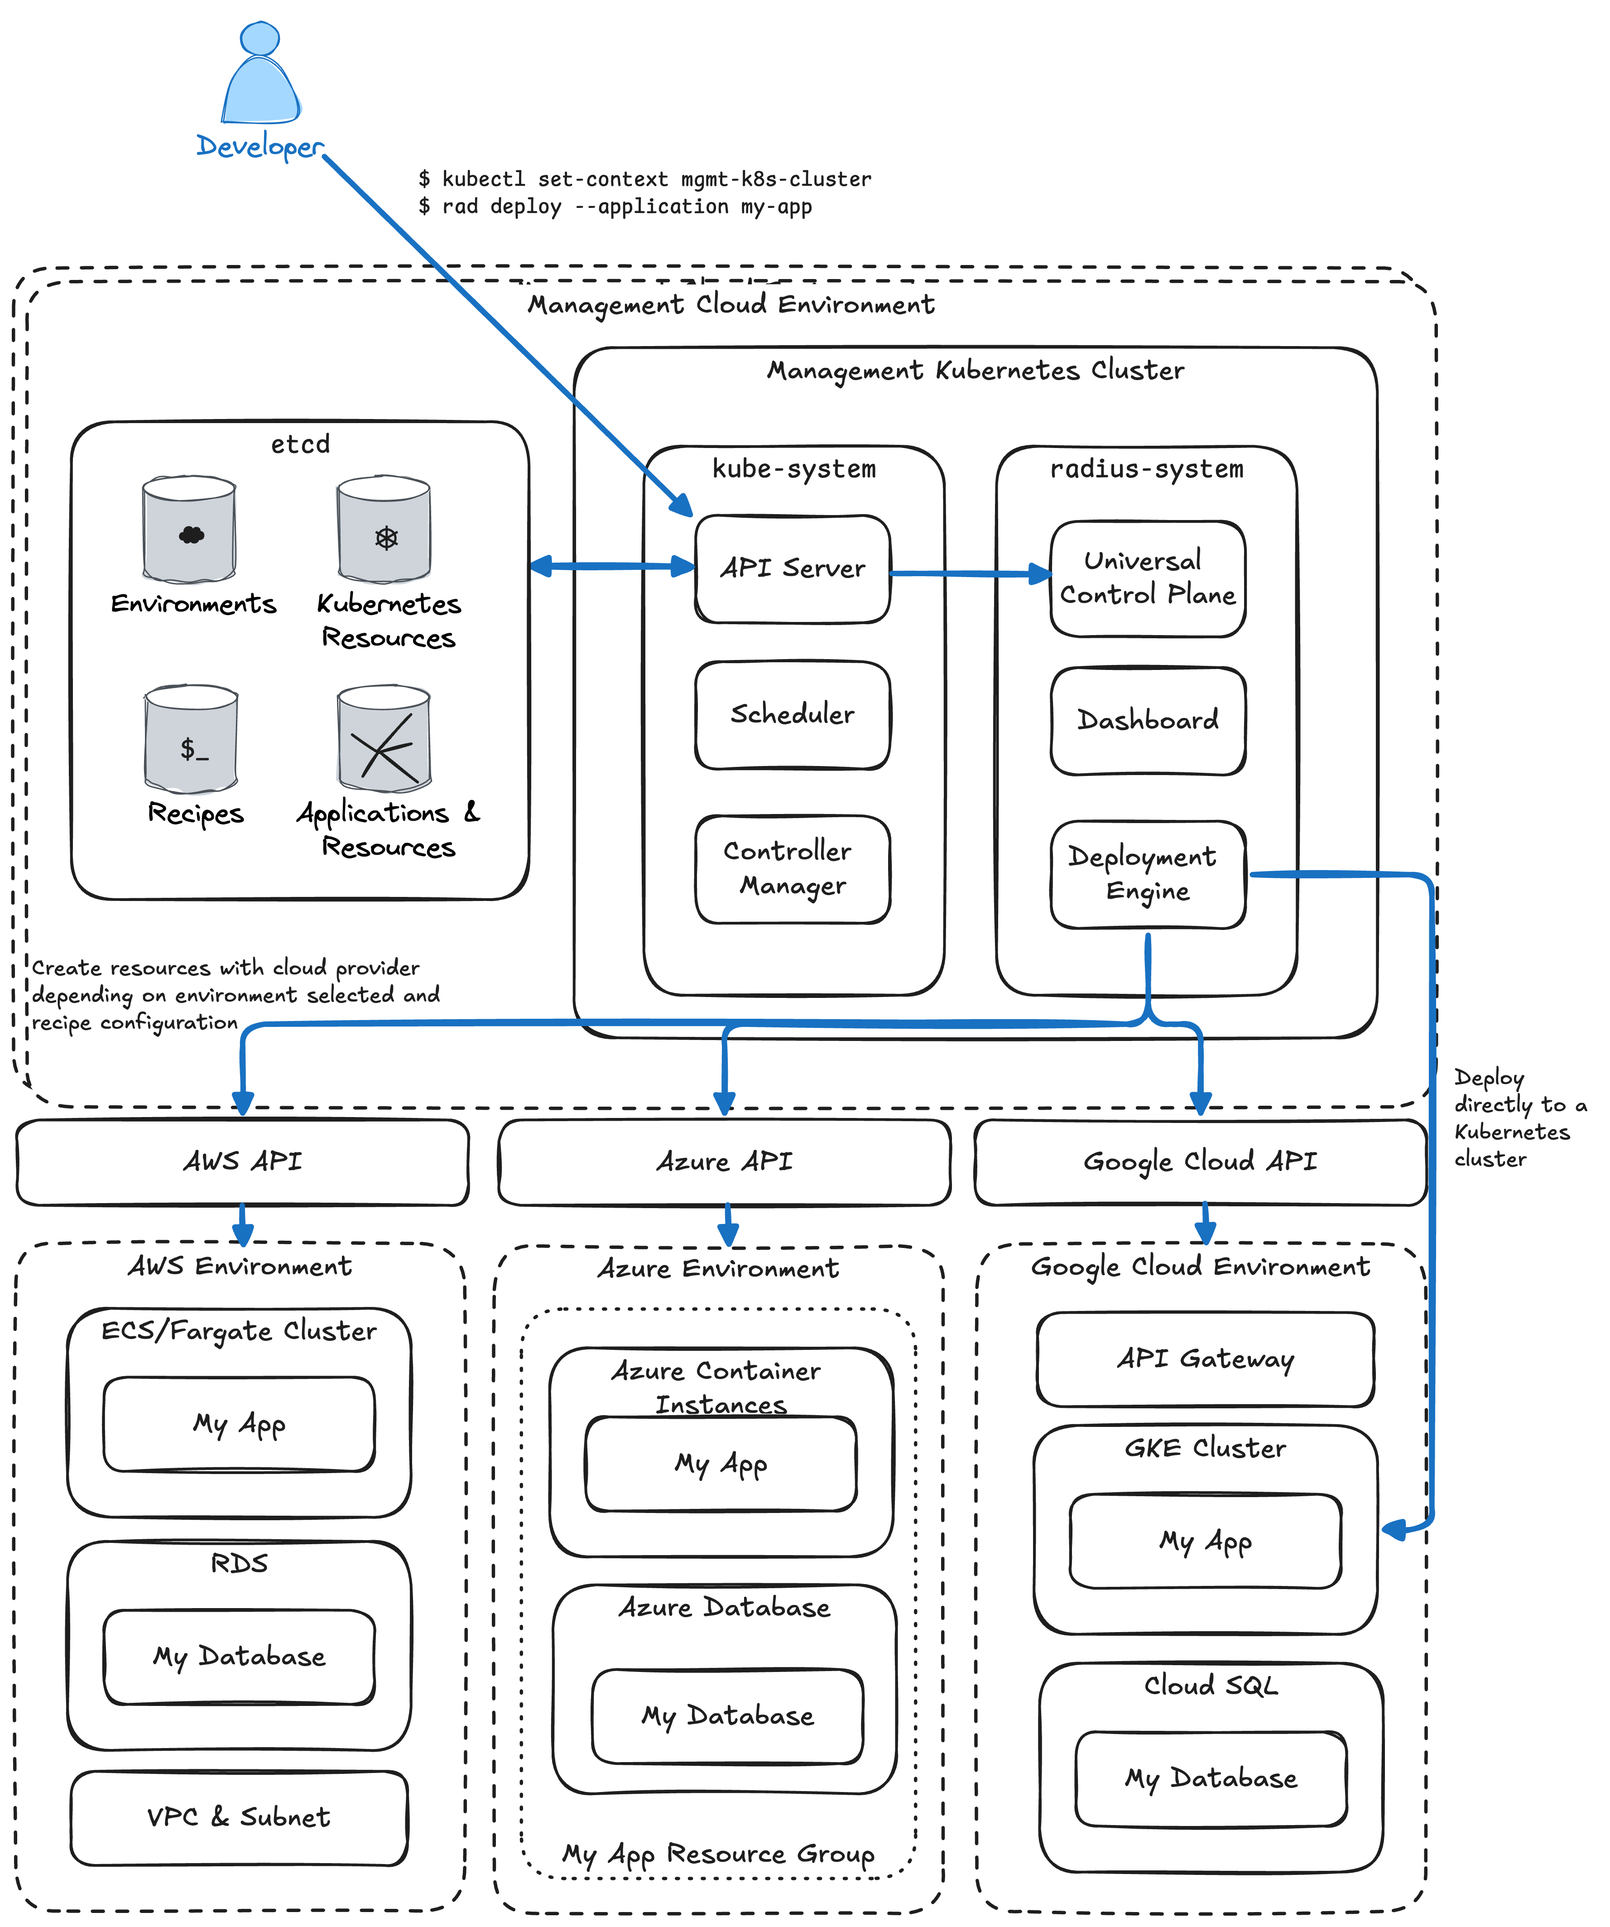
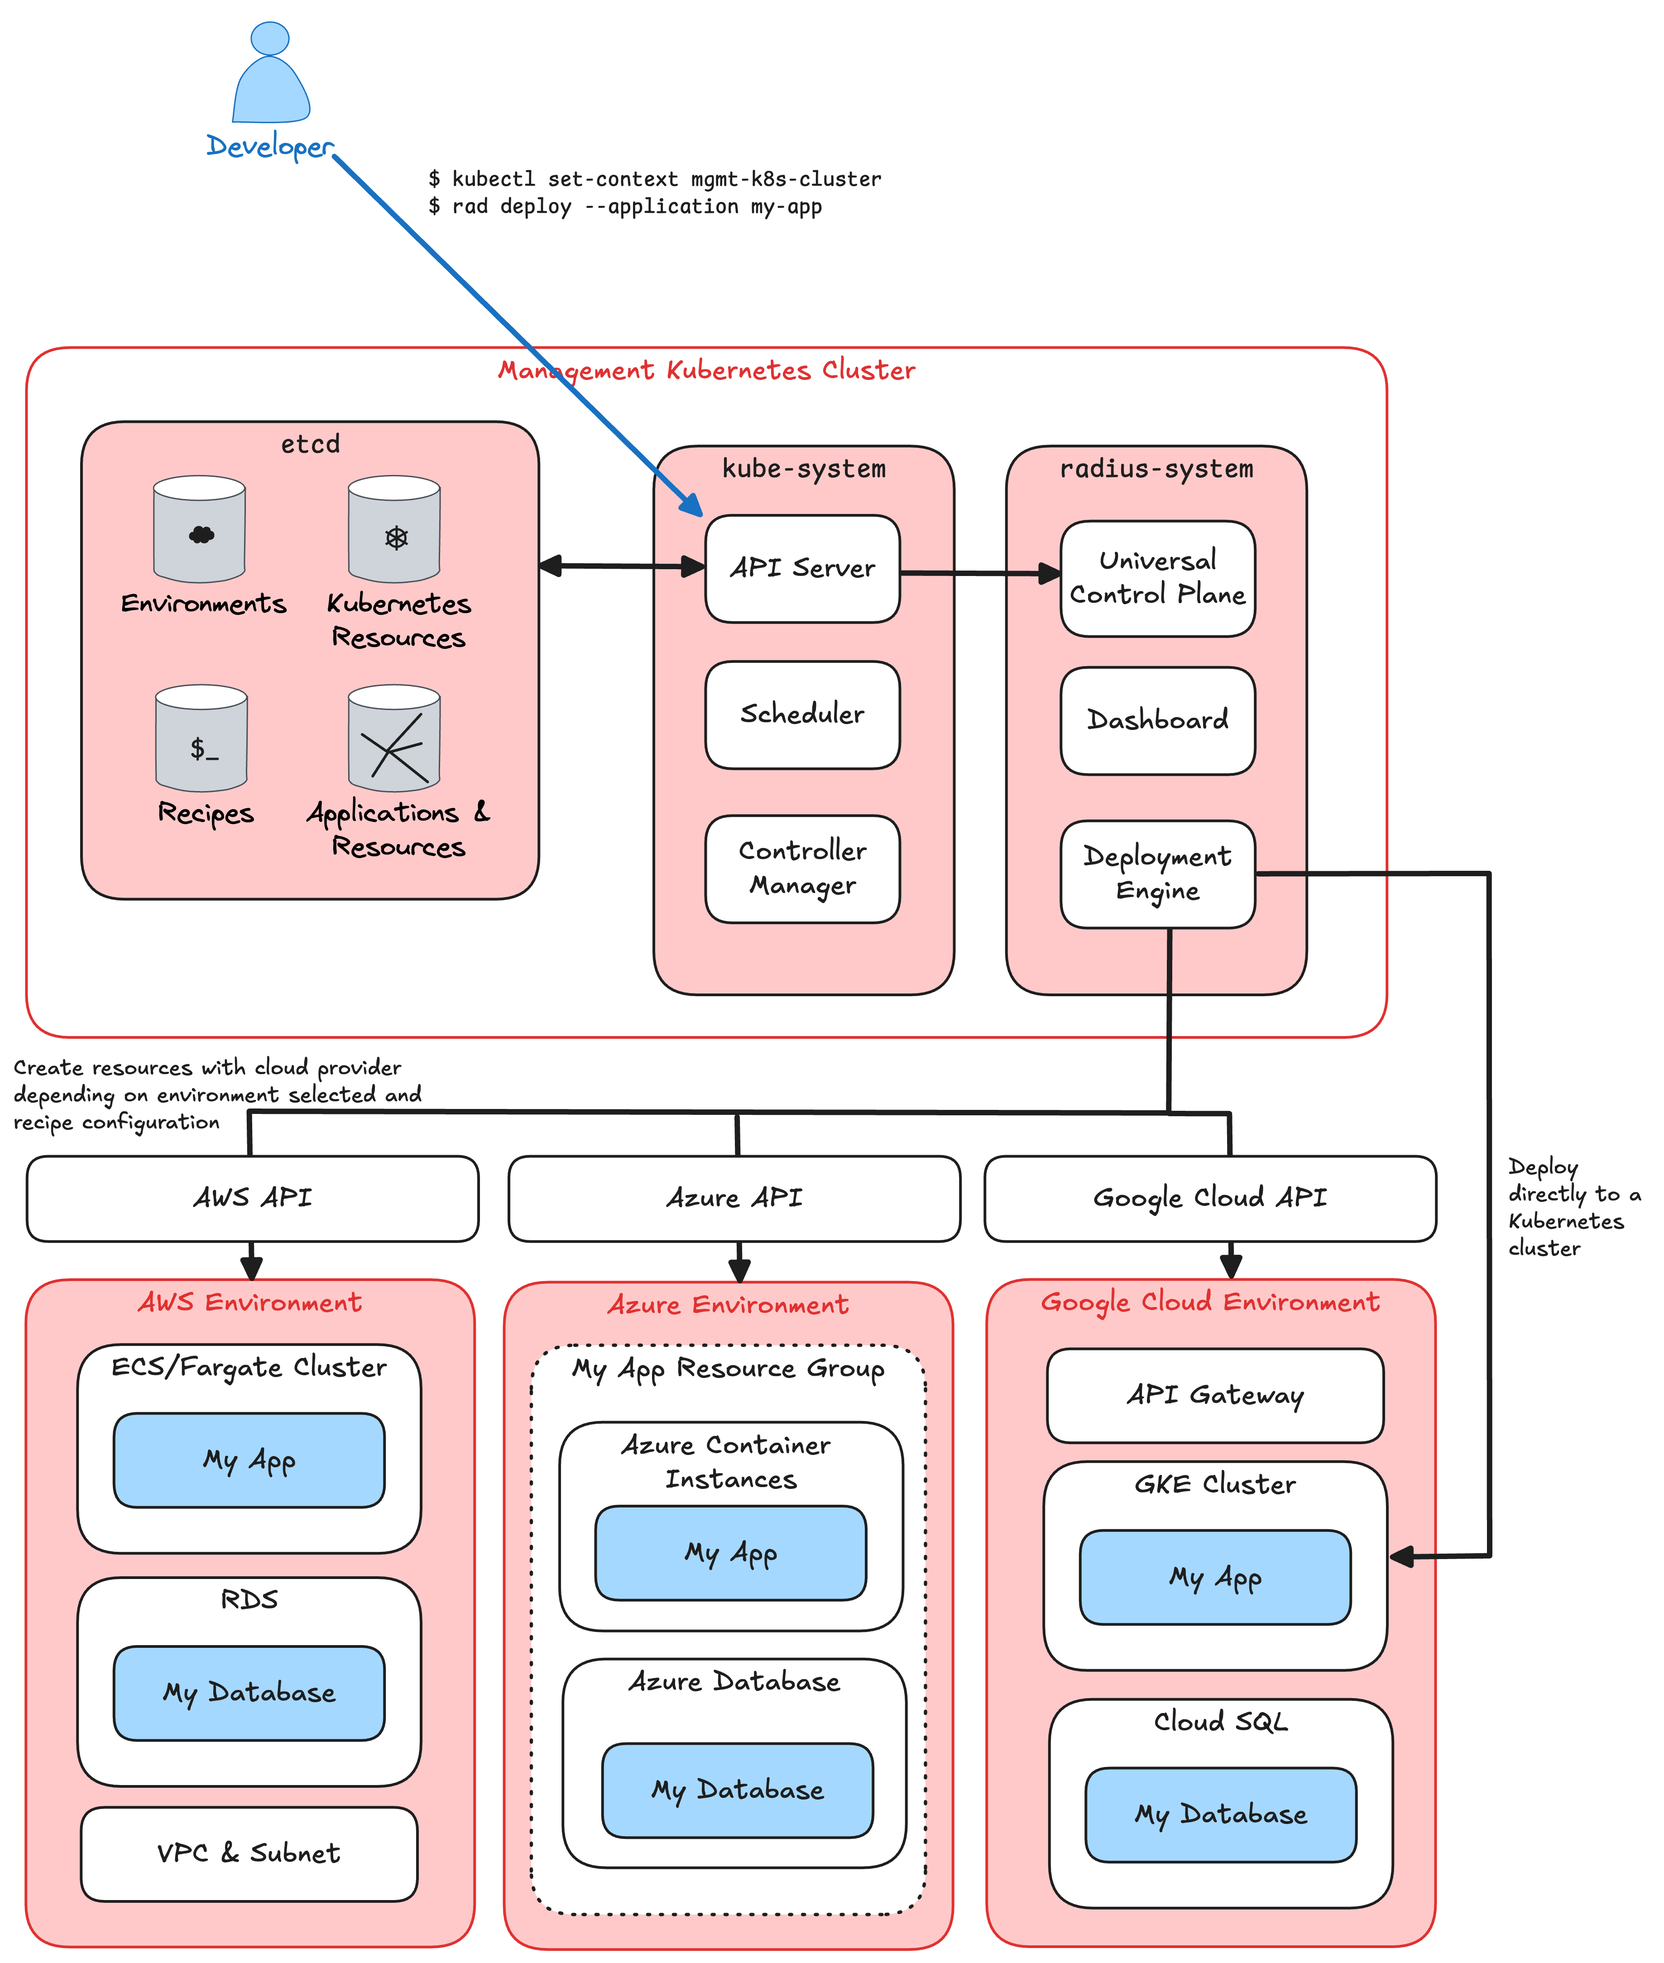
Incorporating Ryan Waite's feedback and small updates to the diagrams.

diff --git a/radblog/content/posts/2024/what-i-learned-in-six-weeks/index.md b/radblog/content/posts/2024/what-i-learned-in-six-weeks/index.md
@@ -12,13 +12,13 @@ I recently joined the Azure Incubations team at Microsoft. In addition to Radius
 
 I've been working with large organizations for many years helping them adopt cloud-native technologies—mostly managing Kubernetes and serverless infrastructure. Each week, I try to talk with at least one large organization in order to keep a pulse on what challenges are top of mind in the community and what engineering efforts are a priority. I've observed several things about the platform engineering landscape recently.
 
-**Increased pressure on platform teams** – Platform teams are being asked to do the same amount of work with fewer resources. In some cases, this is driven by economic reasons. In other cases, it is because companies are shifting resources to make investments in AI. Not only do platform teams have fewer engineers, they are also leading the charge on increasing the efficiency of their cloud environments to reduce operational expense.
-
 **The internal developer platform is becoming standardized** – Internal developer platforms have existed for many years. These platforms shield developers from having to know cloud infrastructure and Kubernetes in-depth as well as to provide CI/CD and observability capabilities. Internal development platforms have become more important as organizations prioritize enforcing security requirements and driving standardization and efficiency. The CNCF platform engineering landscape has also matured. Projects like Backstage, Crossplane, ArgoCD, Flux, and Terraform are popular building blocks. KubeCon now has several co-located events including ArgoCon, BackstageCon, and Platform Engineering Day. And projects like [Cloud Native Operational Excellence](https://cnoe.io/) are starting up to help standardize how internal developer platforms are built.
 
-**Cloud is more than Kubernetes** – There is no need to convince this audience of the power of Kubernetes. It is highly customizable, there is a huge ecosystem around it, and it gives you portability between cloud environments. One thing it does not do is make it possible to manage or describe an applications end to end. Many applications use manage cloud services running outside of Kubernetes such as managed databases, message queues, networks, and storage services and Kubernetes does not have a concept of an application. Teams are often using a mixture of Kubernetes tooling, basic label functionality in Kubernetes, and infrastructure as code tools for managing their applications.
+**No common definition of an application** – Surprisingly, most cloud-native tools do not have a concept of an application. In Kubernetes, for example, we rely on basic labeling of resources such as `app.kubernetes.io/name: myapp`. Without a clear definition of an application, it is near impossible to have a consistent contract between developers and platform engineers. Some organizations try to hide infrastructure complexity behind CI/CD systems or custom tooling, but often, infrastructure details leak into the developers' world.
 
-**Containers don't just run on Kubernetes** – Standing up and operating a production-ready Kubernetes environment is not easy and, for many organizations, it can be overkill. There are many easier-to-operate container platforms such as Azure Container Instances, Azure Container Apps, Amazon ECS/Fargate, and Google CloudRun. I've talked with a growing number of organizations that are moving from Kubernetes to non-Kubernetes container platforms for lower operational overhead and greater ease of use. The opposite is true as well. Many organizations move from one of these platforms to Kubernetes because they want to take advantage of the Kubernetes ecosystem and are ready to make the investment in an internal developer platform and to setup and operate Kubernetes. Since it takes a significant amount of effort to move between these platforms, engineering teams are making long-term, difficult to reverse, platform decisions well before they have built their application, much less operated it in production.
+**Cloud is more than Kubernetes** – Kubernetes is great, but one thing it does not do is make it possible to manage applications which use cloud services running outside of Kubernetes such as managed databases, message queues, etc. Teams are often using a mixture of Kubernetes tooling, basic label functionality in Kubernetes, and infrastructure as code tools for managing their applications.
+
+**Containers don't just run on Kubernetes** – Standing up and operating a production-ready Kubernetes environment is not easy and for many organizations it can be overkill. There are many easier-to-operate container platforms such as Azure Container Instances, Azure Container Apps, Amazon ECS/Fargate, and Google CloudRun. I've talked with a growing number of organizations that are moving from Kubernetes to non-Kubernetes container platforms for lower operational overhead and greater ease of use. The opposite is true as well. Many organizations move from one of these platforms to Kubernetes because they want to take advantage of the Kubernetes ecosystem and are ready to make the investment in an internal developer platform and to setup and operate Kubernetes. Since it takes a significant amount of effort to move between these platforms, engineering teams are making long-term, difficult to reverse, platform decisions well before they have built their application, much less operated it in production.
 
 With these trends and challenges in mind, I've begun to understand what makes Radius unique.
 
@@ -26,13 +26,15 @@ With these trends and challenges in mind, I've begun to understand what makes Ra
 
 After getting some hands-on time, talking with a few platform engineering teams, and getting a tutorial from a few Radius maintainers, I've built up my own understanding of what makes Radius unique. I summarize it as: *Radius is an application-centric, platform-agnostic, cloud resource manager which decouples developer's applications from platform engineer's cloud infrastructure*. That's a mouthful—let's unpack that ignoring for a moment what is possible today and what is on the roadmap. I will discuss what is possible today and what is on the roadmap later.
 
-**Application centric** – Unlike similar tools, Radius is application centric. Rather than having to know cloud platform-specific details, developers build their application using a set of application building block resources published by the platform engineering team. These resources can be simple, such as a web service or a database, or they can be complex composite resources such as a *highly available auto-scaling web service with an API gateway, database, and memory cache*. Radius ships with basic resource types today, but the most interesting resource types will come from community contributors or developed in-house to meet organizational-specific needs.
+**Application centric** – Unlike similar tools, Radius is application centric. Rather than having to know cloud platform-specific details, developers build their application using a set of application building blocks published by the platform engineering team. These building blocks are called resources in Radius, but we will refer to them as application resources for now. Application resources are distinctly different from infrastructure resources from a cloud provider. They can be simple application components, such as a web service or a database, or they can be complex applications such as a *highly available auto-scaling web service with an API gateway, database, and memory cache*. Radius ships with basic application resource types today, but the most interesting resource types will come from community contributors or developed in-house to meet organizational-specific needs.
 
 Since Radius has deep insight into each application, Radius can track dependencies between applications and application components. If you have ever operated a complex landscape of applications and infrastructure, you know how hard it is to understand dependencies. A single database outage can cause a ripple effect through multiple applications and affect many different business functions. When developers use Radius to model their application, Radius keeps track of connections between cloud resources and between other applications. This enables Radius to show operators an application graph showing dependencies across the entire landscape. This graph can be used to identify business impacts of even the smallest component outage and enrich data in incident management and observability systems.
 
-**Platform agnostic** – Radius enforces separation of duties between platform teams and application developers. The application implementation is decoupled from the infrastructure implementation. Since the contract between developers and cloud environments is defined by a set of abstract resource types published by the platform engineering team, and not by which cloud provider is being used, Radius makes applications highly portable both between different cloud providers and between different container platforms.
+**Platform agnostic** – Radius enforces separation of duties between platform teams and application developers. The application implementation is decoupled from the infrastructure implementation. Since the contract between developers and cloud environments is defined by a set of application resource types published by the platform engineering team, and not by which cloud provider is being used, Radius makes applications highly portable both between different cloud providers and between different container platforms.
 
-**Cloud resource manager** – When Radius deploys an application, it manages the cloud resources for that application. These resources could be containers running on Kubernetes or managed services from Azure, AWS, or in the future Google Cloud. When a platform engineer creates an environment in Radius, he or she also creates a recipe which implements each of the resource types. Radius recipes are very flexible. They can be implemented using existing Terraform modules or Bicep, an open-source infrastructure as code language for declaratively defining cloud resources. Radius ships with recipes for managing out-of-the-box resource types on each cloud provider, but most platform engineering teams will customize these recipes to meet their organization's unique requirements. For example, a recipe could be written to deploy an Envoy proxy with mTLS enforced without any developer involvement.
+**Cloud resource manager** – When Radius deploys an application, it translates the application resources used by developers into infrastructure resources. This translation is handled by recipes in Radius. Each application resource type has a recipe which specifies how to deploy and run that resource. Since recipes are implemented using Terraform or Bicep modules, they are very flexible. They can be composed of almost any infrastructure resource such as containers, managed databases, VPCs and VNets, load balancers, or any other cloud service from Azure, AWS, or in the future Google Cloud.
+
+Recipes become powerful when combined with Radius environments. Developers can choose which environment to deploy their application to with Radius. These environments are created by platform engineers and point to a cloud provider and region. Each environment has a unique set of recipes. The platform engineer can configure, for example, a set of recipes for a production environment which deploys an Envoy proxy with mTLS enforced, storage encryption, and other production requirements. Then the recipes for the test environment, would not need these production security controls. The configuration of the application and cloud infrastructure when the application is deployed depends entirely on which environment is selected. The developer never has to modify their application definition or code or have intimate knowledge of the cloud environment.
 
 ## System architecture
 
@@ -58,13 +60,13 @@ The diagram below is a conceptual representation of the various Radius objects a
 
 ![Radius data model](images/data-model.png)
 
-**Application** – This is a Radius object representing an actual application. Radius is not opinionated about how you define an application so it's up to you. It could be a microservice or a complex set of containers, databases, message queues, etc. 
+**Application** – This is a Radius object representing an actual application. Radius is not opinionated about how you define an application so it's up to you. It could be a microservice or a complex set of containers, databases, message queues, etc.
 
 **Resource** – A resource is an application component which is requested in the application's definition. Developers use resources to model their application. Each resource has a type and a version.
 
 **Resource type** – Radius ships with several [resource types out of the box](https://docs.radapp.io/guides/author-apps/portable-resources/overview/) such as `Application.Core/containers` and `Application.Core/mongoDatabases`. It could be a resource type you have added to your Radius configuration from another community member, or a resource type you have defined and customized for your organization.
 
-**Recipe** – I talked about recipes quite a bit above. The only thing to emphasize here is that a recipe is specific to an environment. You could have different sets of recipes for a test environment versus a production environment. In the Envoy mTLS example, a recipe could be written for a test environment that does not deploy an Envoy proxy, but the production environment does without the developer having to worry about Envoy at all.
+**Recipe** – We covered recipes quite a bit in the previous section. Remember that recipes translate resources such as `Application.Core/containers` into deployable infrastructure components such as Kubernetes deployment. Radius ships with recipes for managing out-of-the-box resource types for local development and on each cloud provider.
 
 **Environment** – Environments are straight forward. They are a single place to run applications and all the supporting services. An environment can be your local workstation, an Azure subscription, an AWS account, or a Google Cloud project. You can organize your cloud provider environments the same or completely different than the Radius environments, e.g., one of more Radius environments can use the same Azure subscription or AWS account.
 
@@ -96,7 +98,7 @@ So far, we have ignored what is possible today and what is coming. There are sev
 
 - While you can use Terraform and Bicep to deploy cloud resources today, we are implementing several enhancements to make deploying resources more powerful and flexible including using Dapr workflows as part of your recipe.
 
-You can monitor the Radius roadmap on the [Radius GitHub](https://github.com/orgs/radius-project/projects/8/views/1) page.
+You can monitor the Radius roadmap on the [Radius GitHub](https://aka.ms/radius-roadmap) page.
 
 ## What's next
 
